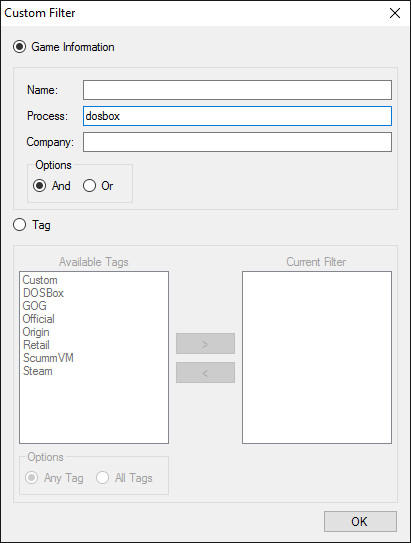
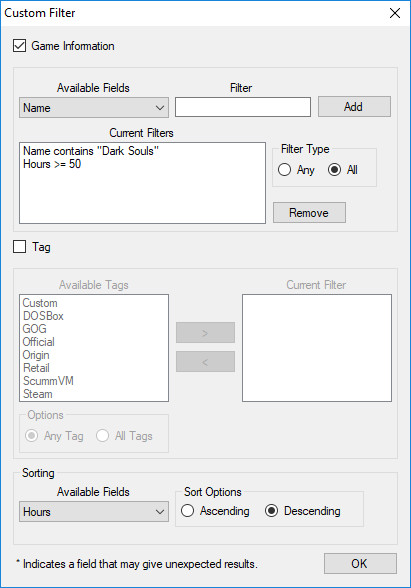
Changes for v104

diff --git a/manual.html b/manual.html
@@ -30,10 +30,10 @@
       <div id="leftcontent">
         <div class="pageSection">
           <div class="pageSectionHeader">
-            Game Backup Monitor v1.02 Manual
+            Game Backup Monitor v1.04 Manual
           </div>
           <div class="pageSectionContent">
-            <h3 class="notop">Updated June 23, 2017</h3>
+            <h3 class="notop">Updated September 26, 2017</h3>
             <h3>Disclaimer:</h3>
             <p>This manual may contain information about features not available in the current stable release.</p>
             <p>If you are having a specific problem, please check the <a href="https://github.com/MikeMaximus/gbm/issues">issues</a> list.</p>
@@ -302,7 +302,7 @@
             <h3>Monitor Settings</h3>
             <h4>Monitor this Game:</h4>
             <p>This box indicates that GBM will actively monitor for this game.</p>
-            <h4>Monitor Only (No Backup):</h4>
+            <h4>Monitor Only:</h4>
             <p>This box indicates that GBM will not trigger a backup when the game is closed.</p>
             <h3>Backup Information</h3>
             <h4>Backup Data:</h4>
@@ -343,6 +343,7 @@
             <p>Importing game configurations is done from the <a href="#gamemanager">Game Manager</a>.</p>
             <p>You can import pre-made backup configurations from the <a href="GBM_official.xml">official list</a> or an XML file exported from GBM.</p><img class="manual" src="images/manual/manual_16.jpg" width="586" height="438" alt="Import" /></p>
             <ul>
+              <li>The import window detects saved games currently on your PC and will automatically select valid configurations by default.</li>
               <li>The import window only shows new configurations, it will not display games you've already configured.</li>
               <li>You can toggle selecting and de-selecting all available configurations by clicking the Select All checkbox.</li>
               <li>You can search for specific games or by tag using the "Filter" field. The filter is applied as you type, remove all text from the field to clear the filter.</li>
@@ -395,15 +396,23 @@
             <a name="filtering" id="filtering">Custom Filters</a>
           </div>
           <div class="pageSectionContent">
-            <p>While using the Game Manager or exporting your game list to an XML file, you'll have the option to use a custom filter.</p>
-            <p>You can choose to filter by Game Information OR by Tag, you can't filter by both at the same time.</p>
+            <p>When using the Game Manager or exporting your game list to an XML file, you'll have the option to use a custom filter.</p>
+            <p>You can choose to filter by Game Information and by Tag.</p>
             <h4>Game Information</h4>
             <ul>
-              <li>You can filter by the Name, Process and/or Company fields.</li>
-              <li>GBM uses a case-insensitive partial search to match any text you've entered in the filter fields.</li>
-              <li>You can choose between the AND / OR options to further refine your filter.</li>
-              <li>If no text is entered on any field in this filter, GBM will return all games.</li>
-            </ul><img class="manual" src="images/manual/manual_11.jpg" width="411" height="543" alt="Filter" />
+              <li>Choose an available field to filter on, depending on the field you will have different filter options.</li>
+              <li>Click the "Add" button to add the filter to the list.  You can add as many as you wish.</li>
+              <li>To delete a filter, select it from the list and click "Remove".</li>
+              <li>Select a Filter Type.
+                <ul>
+                  <li>"Any" - Games that match ANY of the filters will be included in the results.</li>
+                  <li>"All" - Only games that match ALL of the filters will be included in the results.</li>                  
+                </ul></li>
+              <li>GBM always uses a case-insensitive partial search to match on text fields.</li>
+              <li>Due to the way GBM stores data, certain fields may give unpredictable results when used in a filter.  These fields are marked with an asterisk.</li>
+            </ul>
+
+            </ul><img class="manual" src="images/manual/manual_11.jpg" width="411" height="588" alt="Filter" />
             <h4>Tag</h4>
             <ul>
               <li>Choose the Tags you want to filter by and use the appropriate buttons to add or remove them.</li>
@@ -421,7 +430,11 @@
                   </li>
                 </ul>
               </li>
-              <li>If you choose no tags to filter by, GBM will return all games with no tags.</li>
+              <li>If you choose to filter by Tag but choose no tags to filter by, GBM will assume that means all games with no tags.</li>
+            </ul>
+            <h4>Sorting</h4>
+            <ul>
+              <li>The filter results can be sorted by any of the available fields in ascending or descending order.</li>
             </ul>
           </div>
           <div class="pageSectionFooter">

diff --git a/index.html b/index.html
@@ -50,9 +50,9 @@
             </ul>
             <h3>Notices</h3>
             <ul>
-                <li>The <a href="manual.html">manual</a> has been updated to include features added in v1.02.</li>
+                <li>The <a href="manual.html">manual</a> has been updated to include features added in v1.04.</li>
             </ul>
-            <h3>Updated September 5th, 2017</h3>
+            <h3>Updated September 26th, 2017</h3>
           </div>
         </div>
         <!--<div class="pageSection">
